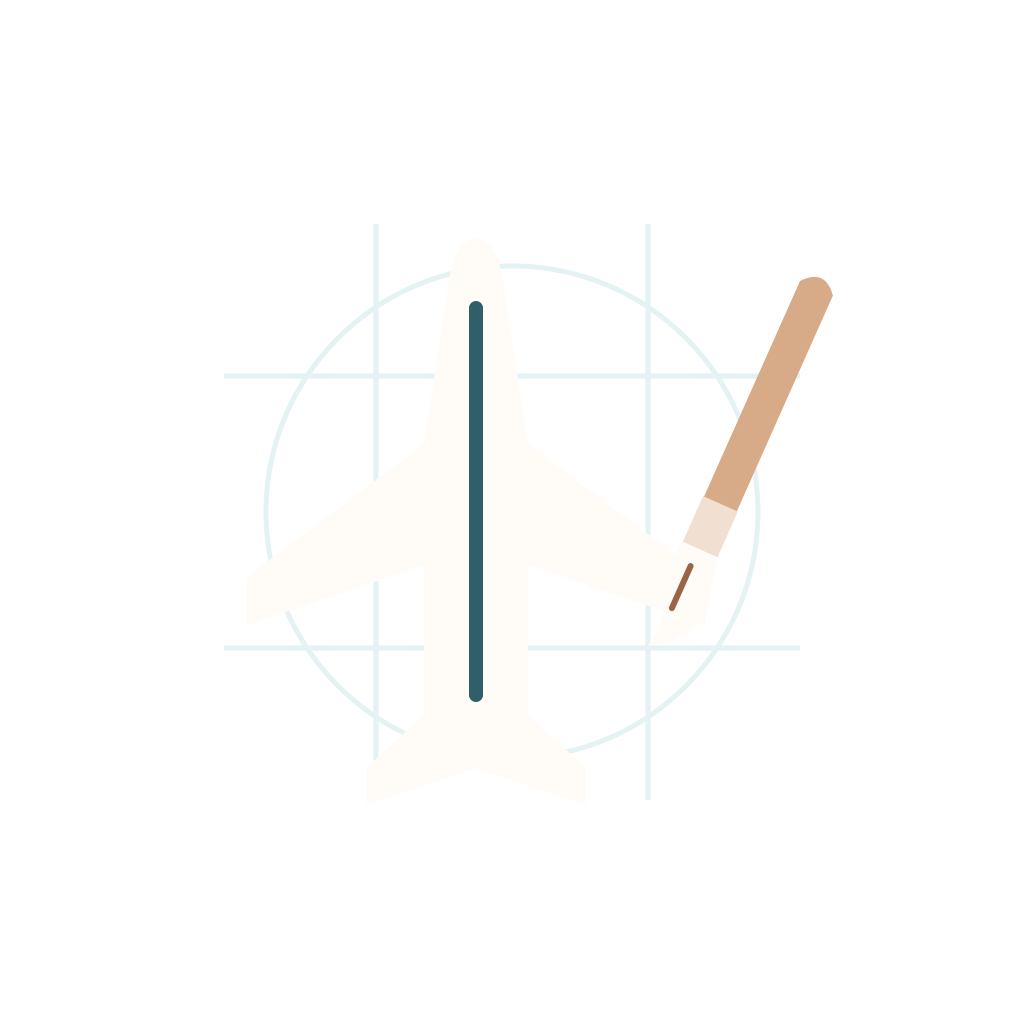
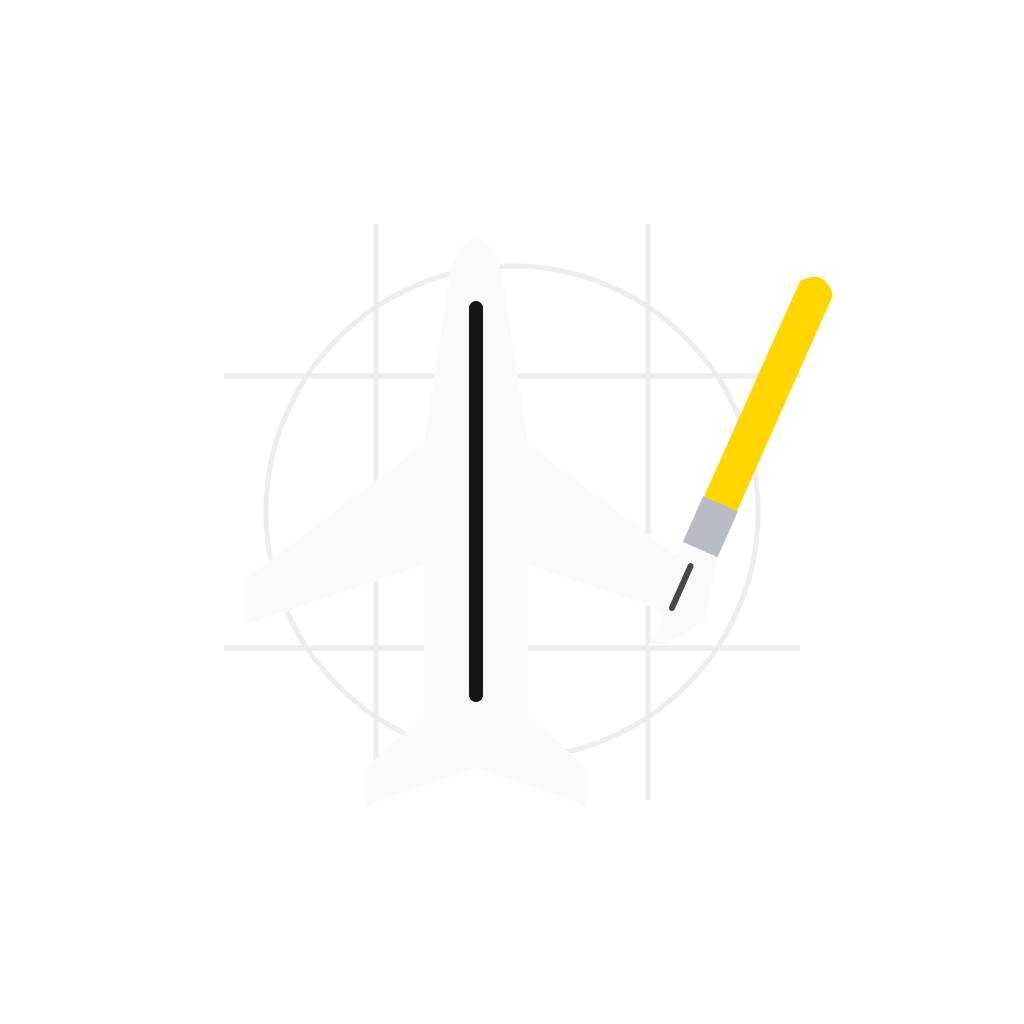
Apply the charcoal and yellow ModellbauLog theme
Use a fixed dark palette with white text, yellow actions and neutral borders. Recolor the existing launcher and splash assets, align Android system styling and notification accents, and preserve the changes through Expo prebuild.

Verified formatting, ESLint, TypeScript, 35 app tests and 51 native tests. Native lint has no errors and 24 existing warnings. Built and installed the matching DevRelease preview without deleting data. Checked dashboard, editor focus, disabled action and a cold start with light system appearance. Further device checks paused because another app was being operated concurrently. No Store build or push.

Changed region(s): [[0.6562, 0.25, 0.8125, 0.5938], [0.4375, 0.2812, 0.4688, 0.6875]]

diff --git a/src/core/ui/components.tsx b/src/core/ui/components.tsx
@@ -21,13 +21,13 @@ import { useSafeAreaInsets } from 'react-native-safe-area-context';
 import { ScrollContext } from './scroll-host';
 import { useMaterialDateTime } from './material-date-time';
 import { localDate } from './date-time-model';
-import { light, useTheme } from './theme';
+import { useTheme } from './theme';
 import { Icon, type IconName } from './icon';
 import { useFeedback, type MenuAnchor } from './feedback';
 import { useIsFocused } from 'expo-router/react-navigation';
 import { useStartupLayout } from '../startup/startup';
 export { useTheme } from './theme';
-export const colors = light;
+export { palette as colors } from './palette';
 export const styles = StyleSheet.create({
   row: {
     flexDirection: 'row',
@@ -346,7 +346,7 @@ export function Button({
         ? c.danger
         : c.primary
       : danger
-        ? '#FFFFFF'
+        ? c.onDanger
         : c.onPrimary;
   return (
     <Pressable
@@ -368,7 +368,7 @@ export function Button({
         paddingHorizontal: 20,
         borderRadius: 40,
         borderWidth: secondary ? 1 : 0,
-        borderColor: disabled ? c.ink + '1F' : danger ? c.danger : c.outline,
+        borderColor: disabled ? c.ink + '1F' : danger ? c.danger : c.primary,
         backgroundColor:
           secondary || textOnly
             ? 'transparent'
@@ -418,7 +418,7 @@ export function Fab({
       accessibilityRole="button"
       onPress={onPress}
       style={({ pressed }) => ({
-        backgroundColor: c.soft,
+        backgroundColor: c.primary,
         minHeight: 56,
         paddingHorizontal: 20,
         paddingVertical: 16,
@@ -431,14 +431,14 @@ export function Fab({
         opacity: pressed ? 0.8 : 1,
       })}
     >
-      <Icon name={icon} color={c.onSoft} size={22} />
+      <Icon name={icon} color={c.onPrimary} size={22} />
       <Text
         style={{
           fontFamily: 'RobotoMedium',
           fontWeight: '600',
           fontSize: 16,
           lineHeight: 20,
-          color: c.onSoft,
+          color: c.onPrimary,
           flexShrink: 1,
           textAlign: 'center',
         }}
@@ -492,7 +492,7 @@ export function Field({
       <View
         style={{
           borderWidth: focused ? 2 : 1,
-          borderColor: error ? c.danger : focused ? c.primary : c.muted,
+          borderColor: error ? c.danger : focused ? c.primary : c.border,
           borderRadius: 14,
           backgroundColor: c.input,
           minHeight: 56,
@@ -539,7 +539,8 @@ export function Field({
             focused ? props.placeholder : floated ? props.placeholder : label
           }
           placeholderTextColor={c.muted}
-          selectionColor={c.primary}
+          cursorColor={c.primary}
+          selectionColor={c.selection}
           style={[
             {
               flex: 1,
@@ -624,7 +625,7 @@ export function SelectField({
       style={{
         minHeight: 56,
         borderWidth: 1,
-        borderColor: c.muted,
+        borderColor: c.border,
         borderRadius: 14,
         backgroundColor: c.input,
         paddingLeft: 16,

diff --git a/src/core/ui/theme.tsx b/src/core/ui/theme.tsx
@@ -1,52 +1,9 @@
 import { createContext, useContext, useState, type ReactNode } from 'react';
-import { useColorScheme } from 'react-native';
 import { useFonts } from 'expo-font';
 import { StartupError, StartupPending } from '../startup/startup';
-export const light = {
-  background: '#F5F3EF',
-  card: '#FFFCF7',
-  input: '#F0F2EE',
-  ink: '#1C282B',
-  muted: '#4E6064',
-  primary: '#315F69',
-  onPrimary: '#FFFFFF',
-  soft: '#D6EBEB',
-  onSoft: '#1B444B',
-  secondaryContainer: '#F1DFD2',
-  onSecondaryContainer: '#6B4935',
-  errorContainer: '#FFDAD6',
-  onErrorContainer: '#93000A',
-  border: '#CBD4CF',
-  outline: '#718181',
-  danger: '#BA1A1A',
-  onDanger: '#FFFFFF',
-  elevated: '#E7EBE6',
-  disabled: '#D7DADD',
-  dark: false,
-};
-export const dark: typeof light = {
-  background: '#172428',
-  card: '#203337',
-  input: '#142024',
-  ink: '#E2ECEB',
-  muted: '#B5C8C7',
-  primary: '#A2CFD3',
-  onPrimary: '#12383F',
-  soft: '#1B444B',
-  onSoft: '#D6EBEB',
-  secondaryContainer: '#6B4935',
-  onSecondaryContainer: '#F1DFD2',
-  errorContainer: '#93000A',
-  onErrorContainer: '#FFDAD6',
-  border: '#435B60',
-  outline: '#8DA5A8',
-  danger: '#FFB4AB',
-  onDanger: '#690005',
-  elevated: '#293C40',
-  disabled: '#34464A',
-  dark: true,
-};
-const ThemeContext = createContext(light);
+import { palette } from './palette';
+
+const ThemeContext = createContext(palette);
 export function ThemeProvider({ children }: { children: ReactNode }) {
   const [attempt, setAttempt] = useState(0);
   return (
@@ -62,7 +19,6 @@ function FontThemeProvider({
   children: ReactNode;
   retry(): void;
 }) {
-  const scheme = useColorScheme();
   const [loaded, error] = useFonts({
     Roboto: require('../../../assets/ui/Roboto-Regular.ttf'),
     RobotoMedium: require('../../../assets/ui/Roboto-Medium.ttf'),
@@ -79,9 +35,7 @@ function FontThemeProvider({
     );
   if (!loaded) return <StartupPending />;
   return (
-    <ThemeContext.Provider value={scheme === 'dark' ? dark : light}>
-      {children}
-    </ThemeContext.Provider>
+    <ThemeContext.Provider value={palette}>{children}</ThemeContext.Provider>
   );
 }
 export const useTheme = () => useContext(ThemeContext);

diff --git a/src/core/startup/startup.tsx b/src/core/startup/startup.tsx
@@ -13,8 +13,9 @@ import { Image, Pressable, ScrollView, Text, View } from 'react-native';
 import { StatusBar } from 'expo-status-bar';
 import * as SplashScreen from 'expo-splash-screen';
 import * as SystemUI from 'expo-system-ui';
+import { palette } from '../ui/palette';
 
-export const startupColor = '#315F69';
+export const startupColor = palette.background;
 
 // Run before any React rendering. Router must not dismiss the native surface
 // as soon as navigation mounts, while fonts or the first query are still pending.
@@ -136,7 +137,7 @@ export function StartupError({
       <StatusBar style="light" />
       <Text
         accessibilityRole="alert"
-        style={{ color: '#FFFFFF', fontSize: 18 }}
+        style={{ color: palette.ink, fontSize: 18 }}
       >
         {message}
       </Text>
@@ -147,12 +148,16 @@ export function StartupError({
           minHeight: 56,
           padding: 16,
           borderRadius: 28,
-          backgroundColor: '#FFFFFF',
+          backgroundColor: palette.primary,
           justifyContent: 'center',
         }}
       >
         <Text
-          style={{ color: startupColor, fontSize: 16, textAlign: 'center' }}
+          style={{
+            color: palette.onPrimary,
+            fontSize: 16,
+            textAlign: 'center',
+          }}
         >
           Erneut versuchen
         </Text>

diff --git a/app.config.ts b/app.config.ts
@@ -6,8 +6,9 @@ const config: ExpoConfig = {
   version: '1.0.0',
   scheme: 'modellbaulog',
   orientation: 'default',
-  userInterfaceStyle: 'automatic',
-  backgroundColor: '#315F69',
+  userInterfaceStyle: 'dark',
+  backgroundColor: '#141517',
+  primaryColor: '#FFD600',
   platforms: ['android'],
   icon: './assets/icon.png',
   android: {
@@ -16,7 +17,7 @@ const config: ExpoConfig = {
     allowBackup: false,
     adaptiveIcon: {
       foregroundImage: './assets/icon-foreground.png',
-      backgroundColor: '#315F69',
+      backgroundColor: '#141517',
     },
     permissions: [
       'android.permission.CAMERA',
@@ -44,8 +45,8 @@ const config: ExpoConfig = {
         image: './assets/icon-foreground.png',
         imageWidth: 256,
         resizeMode: 'contain',
-        backgroundColor: '#315F69',
-        dark: { backgroundColor: '#315F69' },
+        backgroundColor: '#141517',
+        dark: { backgroundColor: '#141517' },
       },
     ],
     'expo-font',

diff --git a/src/features/projects/history-tile.tsx b/src/features/projects/history-tile.tsx
@@ -10,8 +10,6 @@ export function HistoryTile({ item }: { item: HistoryItem }) {
   const [failedUri, setFailedUri] = useState<string>();
   const { step, photoUri, photoCount, progressText, comparison } = item;
   const photoFailed = !!photoUri && failedUri === photoUri;
-  // Match the reference's modelType accent at 14 percent opacity.
-  const dateAccent = c.dark ? '#E2B99B' : '#9A6546';
   return (
     <Card
       onPress={() =>
@@ -20,7 +18,7 @@ export function HistoryTile({ item }: { item: HistoryItem }) {
       style={s.card}
     >
       <View
-        style={[s.dateBadge, { backgroundColor: dateAccent + '24' }]}
+        style={[s.dateBadge, { backgroundColor: c.soft }]}
         accessibilityLabel={`Erfasst am ${dateTime(step.occurredAt)} Uhr`}
       >
         <Icon name="calendar_month_outlined" size={17} />

diff --git a/modules/model-log-native/android/src/test/java/com/appfactory/modellbaulog/nativecore/ReminderAndroidTest.kt b/modules/model-log-native/android/src/test/java/com/appfactory/modellbaulog/nativecore/ReminderAndroidTest.kt
@@ -75,7 +75,7 @@ class ReminderAndroidTest {
             assertEquals(2, shadowOf(notifications).allNotifications.size)
             for (notification in shadowOf(notifications).allNotifications) {
                 assertEquals(R.drawable.ic_stat_model, notification.smallIcon.resId)
-                assertEquals(Color.rgb(49, 95, 105), notification.color)
+                assertEquals(Color.rgb(255, 214, 0), notification.color)
                 val intent = shadowOf(notification.contentIntent).savedIntent
                 assertEquals("modellbaulog://project/saved", intent.data.toString())
                 assertEquals(context.packageName, intent.`package` ?: intent.component?.packageName)

diff --git a/src/core/ui/palette.ts b/src/core/ui/palette.ts
@@ -1,0 +1,24 @@
+// Fixed app palette, also available before fonts and the theme provider load.
+export const palette = {
+  background: '#141517',
+  card: '#202226',
+  input: '#202226',
+  ink: '#FAFAFA',
+  muted: '#B9BDC3',
+  primary: '#FFD600',
+  onPrimary: '#141517',
+  selection: '#FFD60055',
+  soft: '#35311F',
+  onSoft: '#FFD600',
+  secondaryContainer: '#35311F',
+  onSecondaryContainer: '#FFD600',
+  errorContainer: '#93000A',
+  onErrorContainer: '#FFDAD6',
+  border: '#44474D',
+  outline: '#777B82',
+  danger: '#FFB4AB',
+  onDanger: '#690005',
+  elevated: '#2A2C31',
+  disabled: '#34363B',
+  dark: true,
+};

diff --git a/src/core/ui/material-date-time.tsx b/src/core/ui/material-date-time.tsx
@@ -186,6 +186,8 @@ function Picker({
           }
           placeholder={r.mode === 'date' ? 'TT.MM.JJJJ' : undefined}
           placeholderTextColor={c.muted}
+          cursorColor={c.primary}
+          selectionColor={c.selection}
           maxLength={r.mode === 'time' ? 2 : 10}
           style={{
             ...text,
@@ -194,7 +196,7 @@ function Picker({
             padding: 12,
             borderWidth: 1,
             borderRadius: 8,
-            borderColor: error ? c.danger : c.outline,
+            borderColor: error ? c.danger : c.border,
             backgroundColor: c.input,
           }}
         />

diff --git a/src/core/ui/snackbar.tsx b/src/core/ui/snackbar.tsx
@@ -63,7 +63,7 @@ export function Snackbar({
         paddingBottom: 14 + safe.bottom,
         paddingLeft: 24 + safe.left,
         paddingRight: 24 + safe.right,
-        backgroundColor: c.dark ? '#E0E2E8' : '#2D3135',
+        backgroundColor: c.elevated,
         elevation: 6,
       }}
     >
@@ -74,7 +74,7 @@ export function Snackbar({
           lineHeight: 20,
           letterSpacing: 0.25,
           textAlign: 'center',
-          color: c.dark ? '#2D3135' : '#F1F4F7',
+          color: c.ink,
         }}
       >
         {message}

diff --git a/src/core/ui/dialog-actions.tsx b/src/core/ui/dialog-actions.tsx
@@ -55,7 +55,11 @@ export function DialogActions({
               paddingVertical: 12,
               borderRadius: 40,
               borderWidth: action.outlined ? 1 : 0,
-              borderColor: action.disabled ? c.ink + '1F' : c.outline,
+              borderColor: action.disabled
+                ? c.ink + '1F'
+                : action.danger
+                  ? c.danger
+                  : c.primary,
               backgroundColor: action.filled
                 ? action.disabled
                   ? c.disabled

diff --git a/plugins/with-modellbaulog-android.js b/plugins/with-modellbaulog-android.js
@@ -37,6 +37,10 @@ module.exports = function withModellbaulogAndroid(config) {
       '@color/splashscreen_background',
     );
     setItem(app, 'android:windowBackground', '@color/splashscreen_background');
+    setItem(app, 'android:windowLightStatusBar', 'false');
+    setItem(app, 'android:windowLightNavigationBar', 'false');
+    setItem(app, 'android:forceDarkAllowed', 'false');
+    setItem(app, 'colorAccent', '@color/colorPrimary');
     return mod;
   });
   config = withMainActivity(config, (mod) => {

diff --git a/modules/model-log-native/android/src/main/java/com/appfactory/modellbaulog/nativecore/ReminderScheduler.kt b/modules/model-log-native/android/src/main/java/com/appfactory/modellbaulog/nativecore/ReminderScheduler.kt
@@ -152,7 +152,7 @@ internal enum class ReminderAvailability(val wireValue: String) {
 }
 
 internal object ReminderNotifier {
-    private val notificationColor = Color.rgb(49, 95, 105)
+    private val notificationColor = Color.rgb(255, 214, 0)
     private const val normalChannelId = "modellbaulog_reminders"
     private const val alarmChannelId = "modellbaulog_alarm_reminders_v1"
     private const val recordNotificationId = 1001
